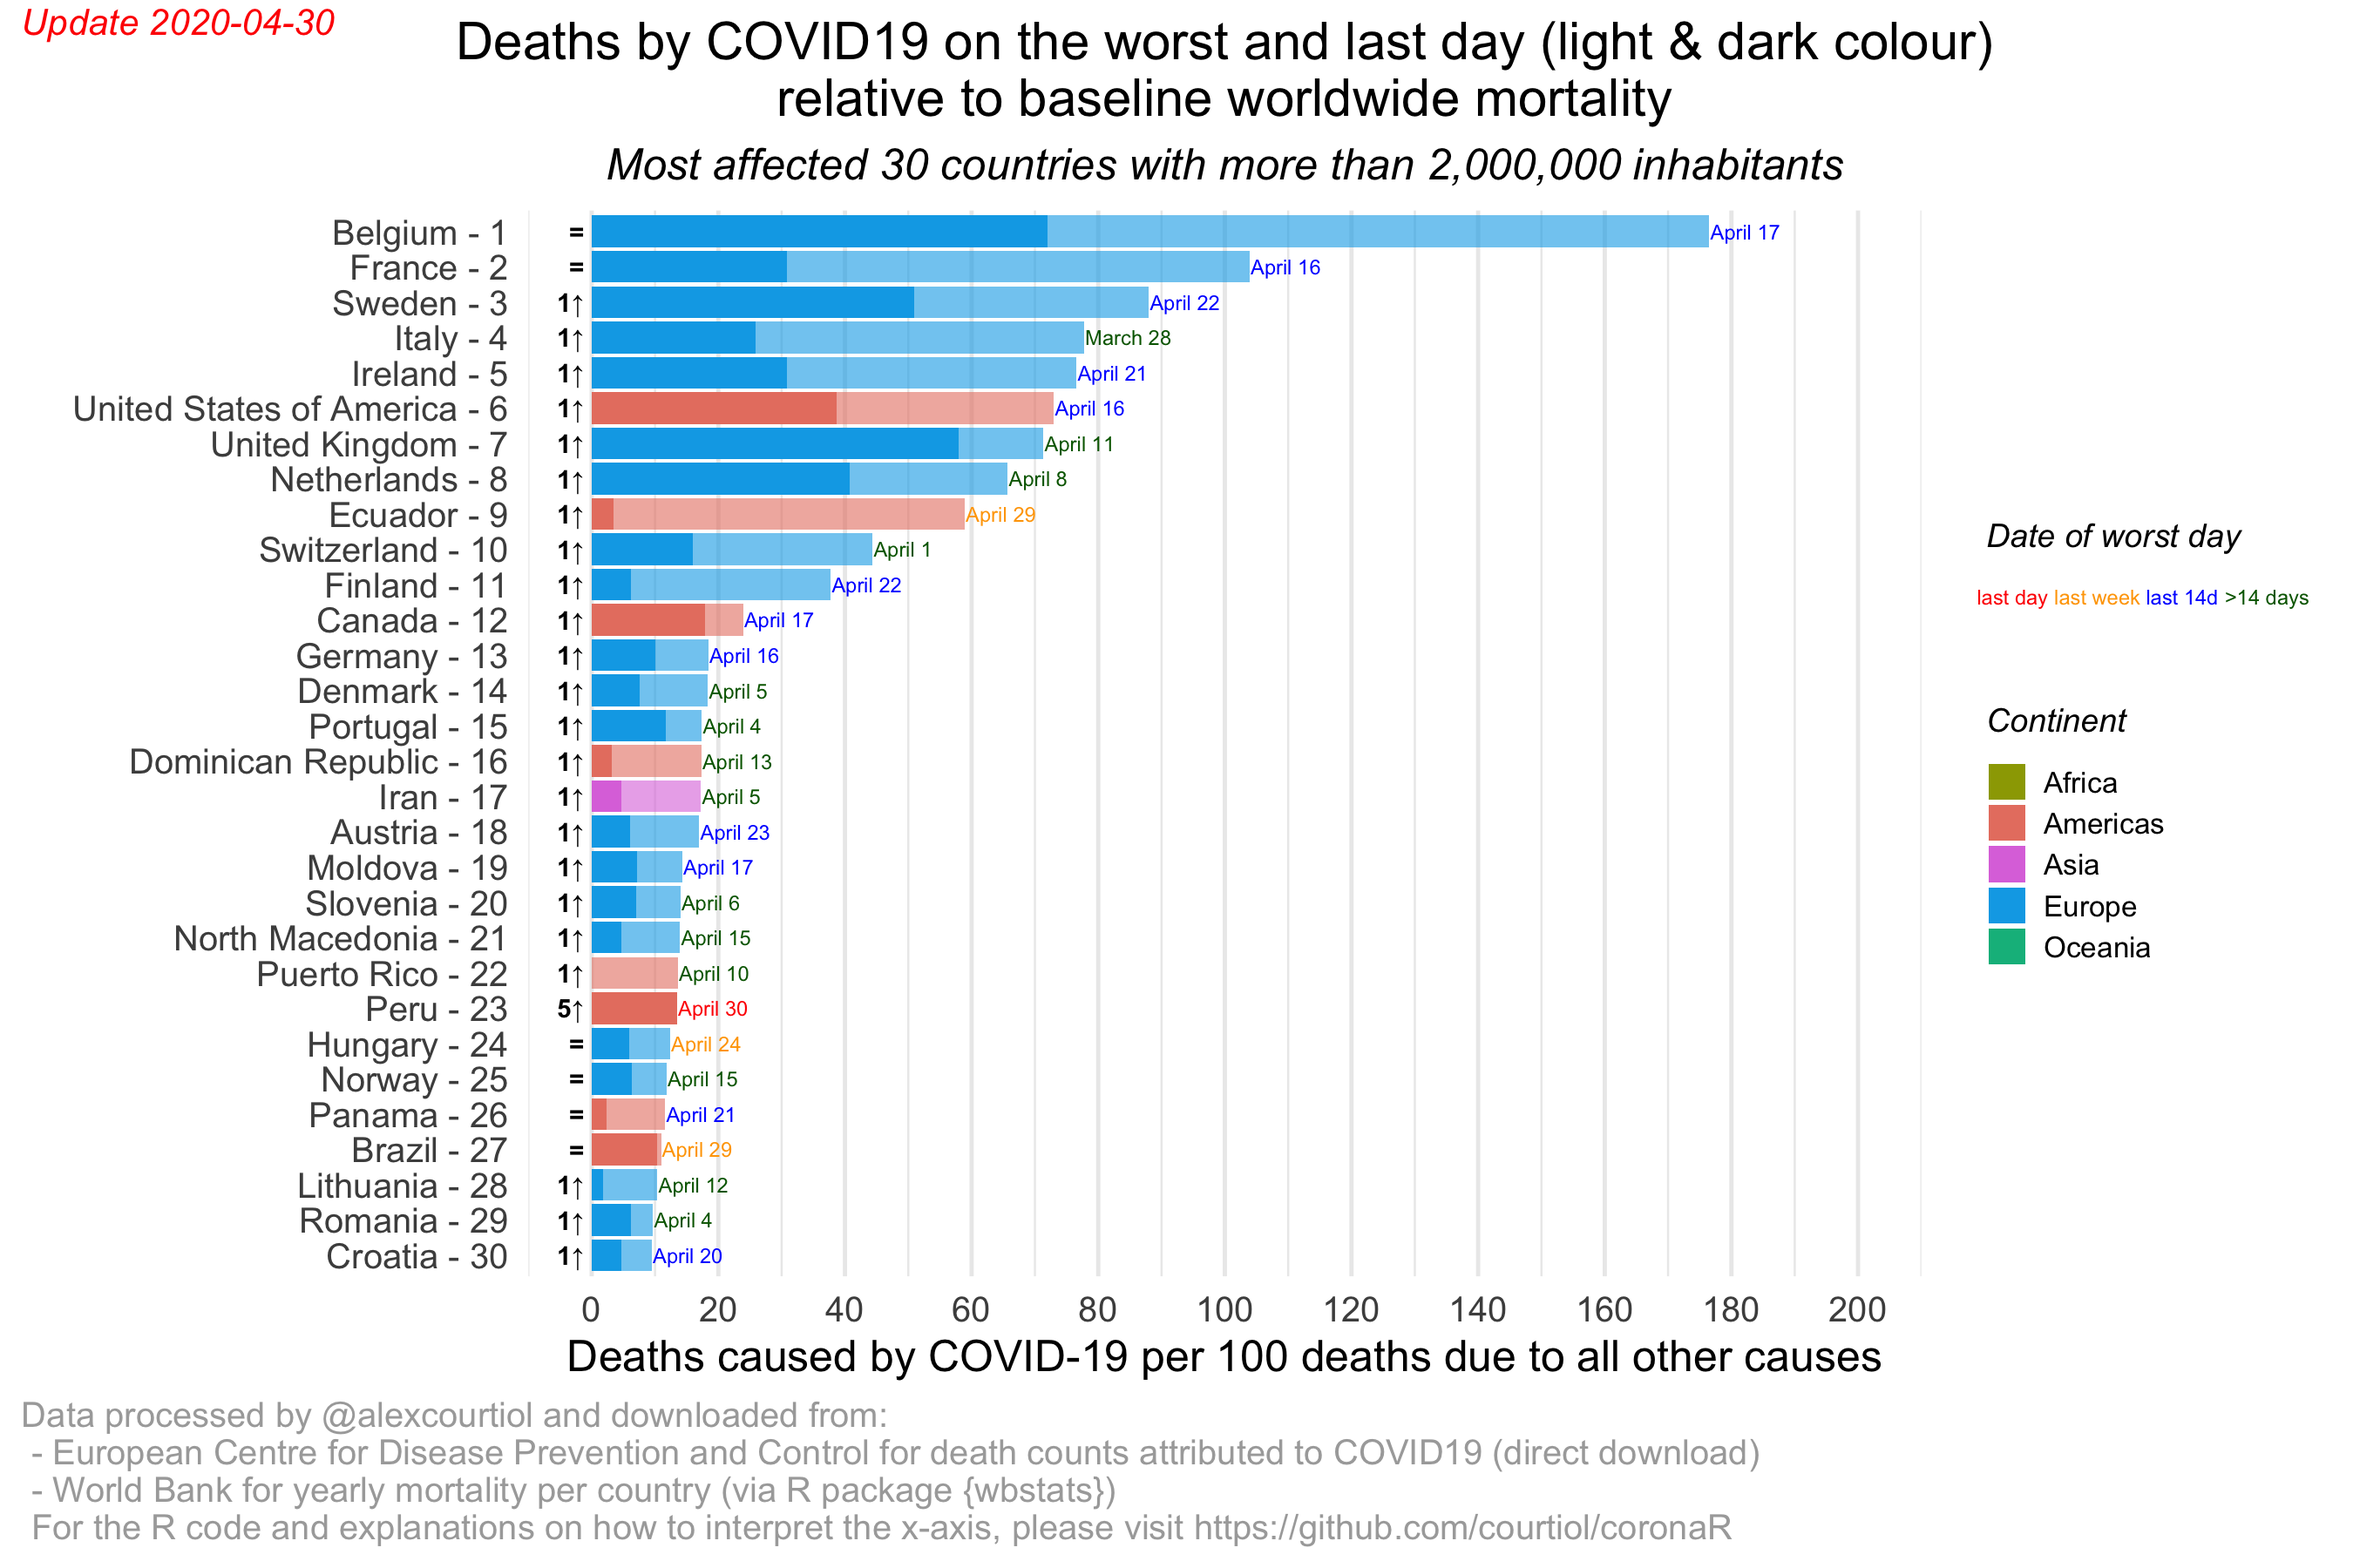
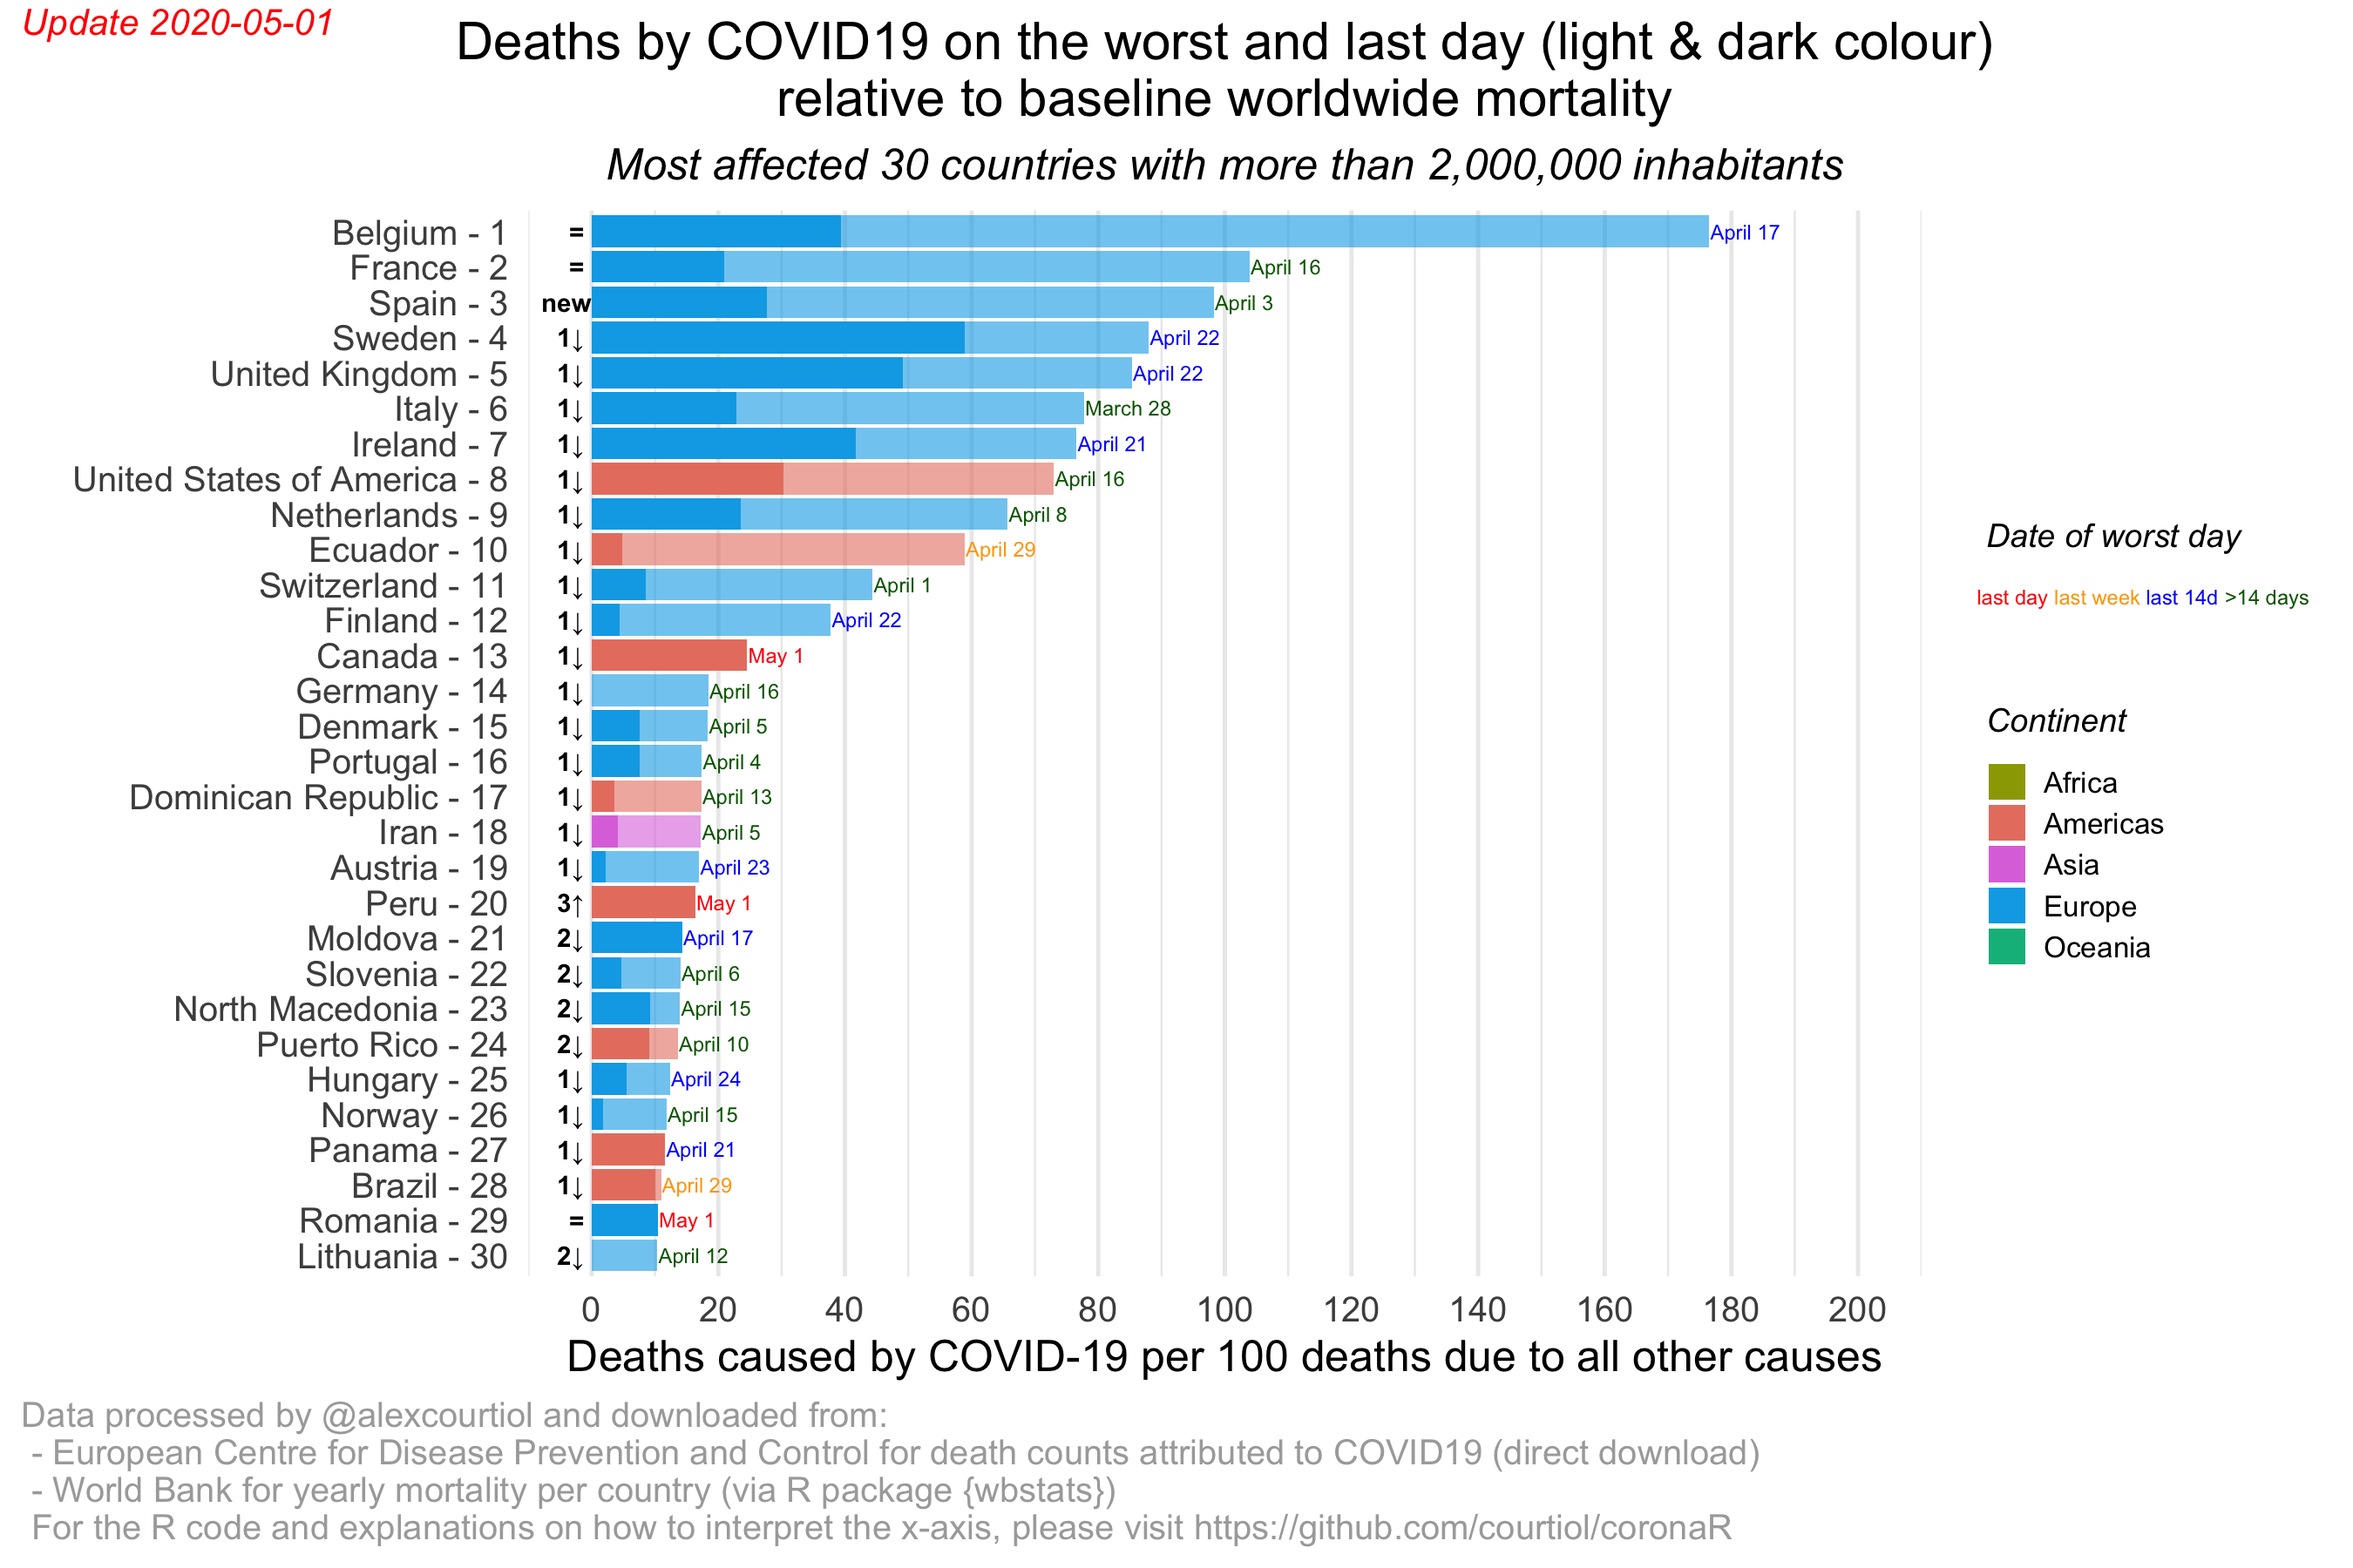
Update 20200501

diff --git a/README.md b/README.md
@@ -95,23 +95,23 @@ library(coronaR)
 today <- Sys.Date() ## note: you can change the date, to rebuild plots retrospectively
 data_COVID <- prepare_data_ECDC(path_save_data = "~/Downloads/COVID19",
                                 date_of_report = today)
-#> The source of the COVID data have been stored in~/Downloads/COVID19/COVID-19-geographic-disbtribution-worldwide-2020-04-30.xlsx!
+#> The source of the COVID data have been stored in~/Downloads/COVID19/COVID-19-geographic-disbtribution-worldwide-2020-05-01.xlsx!
 #> Warning in countrycode::countrycode(.data$iso2c, origin = "iso2c", destination = "continent"): Some values were not matched unambiguously: XK
 data_COVID
-#> # A tibble: 14,035 x 9
+#> # A tibble: 14,242 x 9
 #>    country iso2c continent date_report date_report_last cases deaths_daily
 #>    <chr>   <chr> <fct>     <date>      <date>           <dbl>        <dbl>
-#>  1 Afghan… AF    Asia      2019-12-31  2020-04-30           0            0
-#>  2 Afghan… AF    Asia      2020-01-01  2020-04-30           0            0
-#>  3 Afghan… AF    Asia      2020-01-02  2020-04-30           0            0
-#>  4 Afghan… AF    Asia      2020-01-03  2020-04-30           0            0
-#>  5 Afghan… AF    Asia      2020-01-04  2020-04-30           0            0
-#>  6 Afghan… AF    Asia      2020-01-05  2020-04-30           0            0
-#>  7 Afghan… AF    Asia      2020-01-06  2020-04-30           0            0
-#>  8 Afghan… AF    Asia      2020-01-07  2020-04-30           0            0
-#>  9 Afghan… AF    Asia      2020-01-08  2020-04-30           0            0
-#> 10 Afghan… AF    Asia      2020-01-09  2020-04-30           0            0
-#> # … with 14,025 more rows, and 2 more variables: deaths_cumul <dbl>,
+#>  1 Afghan… AF    Asia      2019-12-31  2020-05-01           0            0
+#>  2 Afghan… AF    Asia      2020-01-01  2020-05-01           0            0
+#>  3 Afghan… AF    Asia      2020-01-02  2020-05-01           0            0
+#>  4 Afghan… AF    Asia      2020-01-03  2020-05-01           0            0
+#>  5 Afghan… AF    Asia      2020-01-04  2020-05-01           0            0
+#>  6 Afghan… AF    Asia      2020-01-05  2020-05-01           0            0
+#>  7 Afghan… AF    Asia      2020-01-06  2020-05-01           0            0
+#>  8 Afghan… AF    Asia      2020-01-07  2020-05-01           0            0
+#>  9 Afghan… AF    Asia      2020-01-08  2020-05-01           0            0
+#> 10 Afghan… AF    Asia      2020-01-09  2020-05-01           0            0
+#> # … with 14,232 more rows, and 2 more variables: deaths_cumul <dbl>,
 #> #   date_first_10_cumul_deaths <date>
   
 ## NOTE: the following Warning is expected:
@@ -250,32 +250,32 @@ full_data <- merge_datasets(data_ECDC = data_COVID,
 
 ``` r
 str(full_data)
-#> tibble [10,799 × 24] (S3: tbl_df/tbl/data.frame)
-#>  $ country                         : chr [1:10799] "Afghanistan" "Afghanistan" "Afghanistan" "Afghanistan" ...
+#> tibble [10,942 × 24] (S3: tbl_df/tbl/data.frame)
+#>  $ country                         : chr [1:10942] "Afghanistan" "Afghanistan" "Afghanistan" "Afghanistan" ...
 #>  $ continent                       : Factor w/ 5 levels "Africa","Americas",..: 3 3 3 3 3 3 3 3 3 3 ...
-#>  $ date_report                     : Date[1:10799], format: "2020-04-30" "2020-04-29" ...
-#>  $ date_report_last                : Date[1:10799], format: "2020-04-30" "2020-04-30" ...
-#>  $ cases                           : num [1:10799] 122 124 172 68 112 70 105 84 61 35 ...
-#>  $ deaths_daily                    : num [1:10799] 0 3 0 10 4 1 2 4 1 2 ...
-#>  $ deaths_cumul                    : num [1:10799] 60 60 57 57 47 43 42 40 36 35 ...
-#>  $ date_first_10_cumul_deaths      : Date[1:10799], format: "2020-04-08" "2020-04-08" ...
-#>  $ year_mortality                  : num [1:10799] 2018 2018 2018 2018 2018 ...
-#>  $ total_death_year                : num [1:10799] 238758 238758 238758 238758 238758 ...
-#>  $ total_death_day                 : num [1:10799] 654 654 654 654 654 ...
-#>  $ total_death_year_world          : num [1:10799] 56650926 56650926 56650926 56650926 56650926 ...
-#>  $ total_death_day_world           : num [1:10799] 155208 155208 155208 155208 155208 ...
-#>  $ country_pop                     : num [1:10799] 37172386 37172386 37172386 37172386 37172386 ...
-#>  $ world_pop                       : num [1:10799] 7.51e+09 7.51e+09 7.51e+09 7.51e+09 7.51e+09 ...
-#>  $ days_since_first_10_cumul_deaths: 'difftime' num [1:10799] 22 21 20 19 ...
+#>  $ date_report                     : Date[1:10942], format: "2020-05-01" "2020-04-30" ...
+#>  $ date_report_last                : Date[1:10942], format: "2020-05-01" "2020-05-01" ...
+#>  $ cases                           : num [1:10942] 222 122 124 172 68 112 70 105 84 61 ...
+#>  $ deaths_daily                    : num [1:10942] 4 0 3 0 10 4 1 2 4 1 ...
+#>  $ deaths_cumul                    : num [1:10942] 64 60 60 57 57 47 43 42 40 36 ...
+#>  $ date_first_10_cumul_deaths      : Date[1:10942], format: "2020-04-08" "2020-04-08" ...
+#>  $ year_mortality                  : num [1:10942] 2018 2018 2018 2018 2018 ...
+#>  $ total_death_year                : num [1:10942] 238758 238758 238758 238758 238758 ...
+#>  $ total_death_day                 : num [1:10942] 654 654 654 654 654 ...
+#>  $ total_death_year_world          : num [1:10942] 56650926 56650926 56650926 56650926 56650926 ...
+#>  $ total_death_day_world           : num [1:10942] 155208 155208 155208 155208 155208 ...
+#>  $ country_pop                     : num [1:10942] 37172386 37172386 37172386 37172386 37172386 ...
+#>  $ world_pop                       : num [1:10942] 7.51e+09 7.51e+09 7.51e+09 7.51e+09 7.51e+09 ...
+#>  $ days_since_first_10_cumul_deaths: 'difftime' num [1:10942] 23 22 21 20 ...
 #>   ..- attr(*, "units")= chr "days"
-#>  $ extra_mortality_daily_country   : num [1:10799] 0 0.459 0 1.529 0.611 ...
-#>  $ extra_mortality_cumul_country   : num [1:10799] 0.339 0.354 0.349 0.367 0.306 ...
-#>  $ country_weight                  : num [1:10799] 0.00495 0.00495 0.00495 0.00495 0.00495 ...
-#>  $ extra_mortality_daily_world     : num [1:10799] 0 0.391 0 1.302 0.521 ...
-#>  $ extra_mortality_cumul_world     : num [1:10799] 0.289 0.302 0.298 0.312 0.26 ...
-#>  $ extra_mortality                 : num [1:10799] 1.529 1.529 1.529 1.529 0.611 ...
-#>  $ date                            : Date[1:10799], format: "2020-04-27" "2020-04-27" ...
-#>  $ days_since_date                 : 'difftime' num [1:10799] 3 3 3 3 ...
+#>  $ extra_mortality_daily_country   : num [1:10942] 0.611 0 0.459 0 1.529 ...
+#>  $ extra_mortality_cumul_country   : num [1:10942] 0.35 0.339 0.354 0.349 0.367 ...
+#>  $ country_weight                  : num [1:10942] 0.00495 0.00495 0.00495 0.00495 0.00495 ...
+#>  $ extra_mortality_daily_world     : num [1:10942] 0.521 0 0.391 0 1.302 ...
+#>  $ extra_mortality_cumul_world     : num [1:10942] 0.298 0.289 0.302 0.298 0.312 ...
+#>  $ extra_mortality                 : num [1:10942] 1.53 1.53 1.53 1.53 1.53 ...
+#>  $ date                            : Date[1:10942], format: "2020-04-27" "2020-04-27" ...
+#>  $ days_since_date                 : 'difftime' num [1:10942] 4 4 4 4 ...
 #>   ..- attr(*, "units")= chr "days"
 ```
 
@@ -355,7 +355,7 @@ devtools::session_info()
 #>  collate  en_US.UTF-8                 
 #>  ctype    en_US.UTF-8                 
 #>  tz       Europe/Berlin               
-#>  date     2020-04-30                  
+#>  date     2020-05-01                  
 #> 
 #> ─ Packages ───────────────────────────────────────────────────────────────────
 #>  package     * version    date       lib source        
